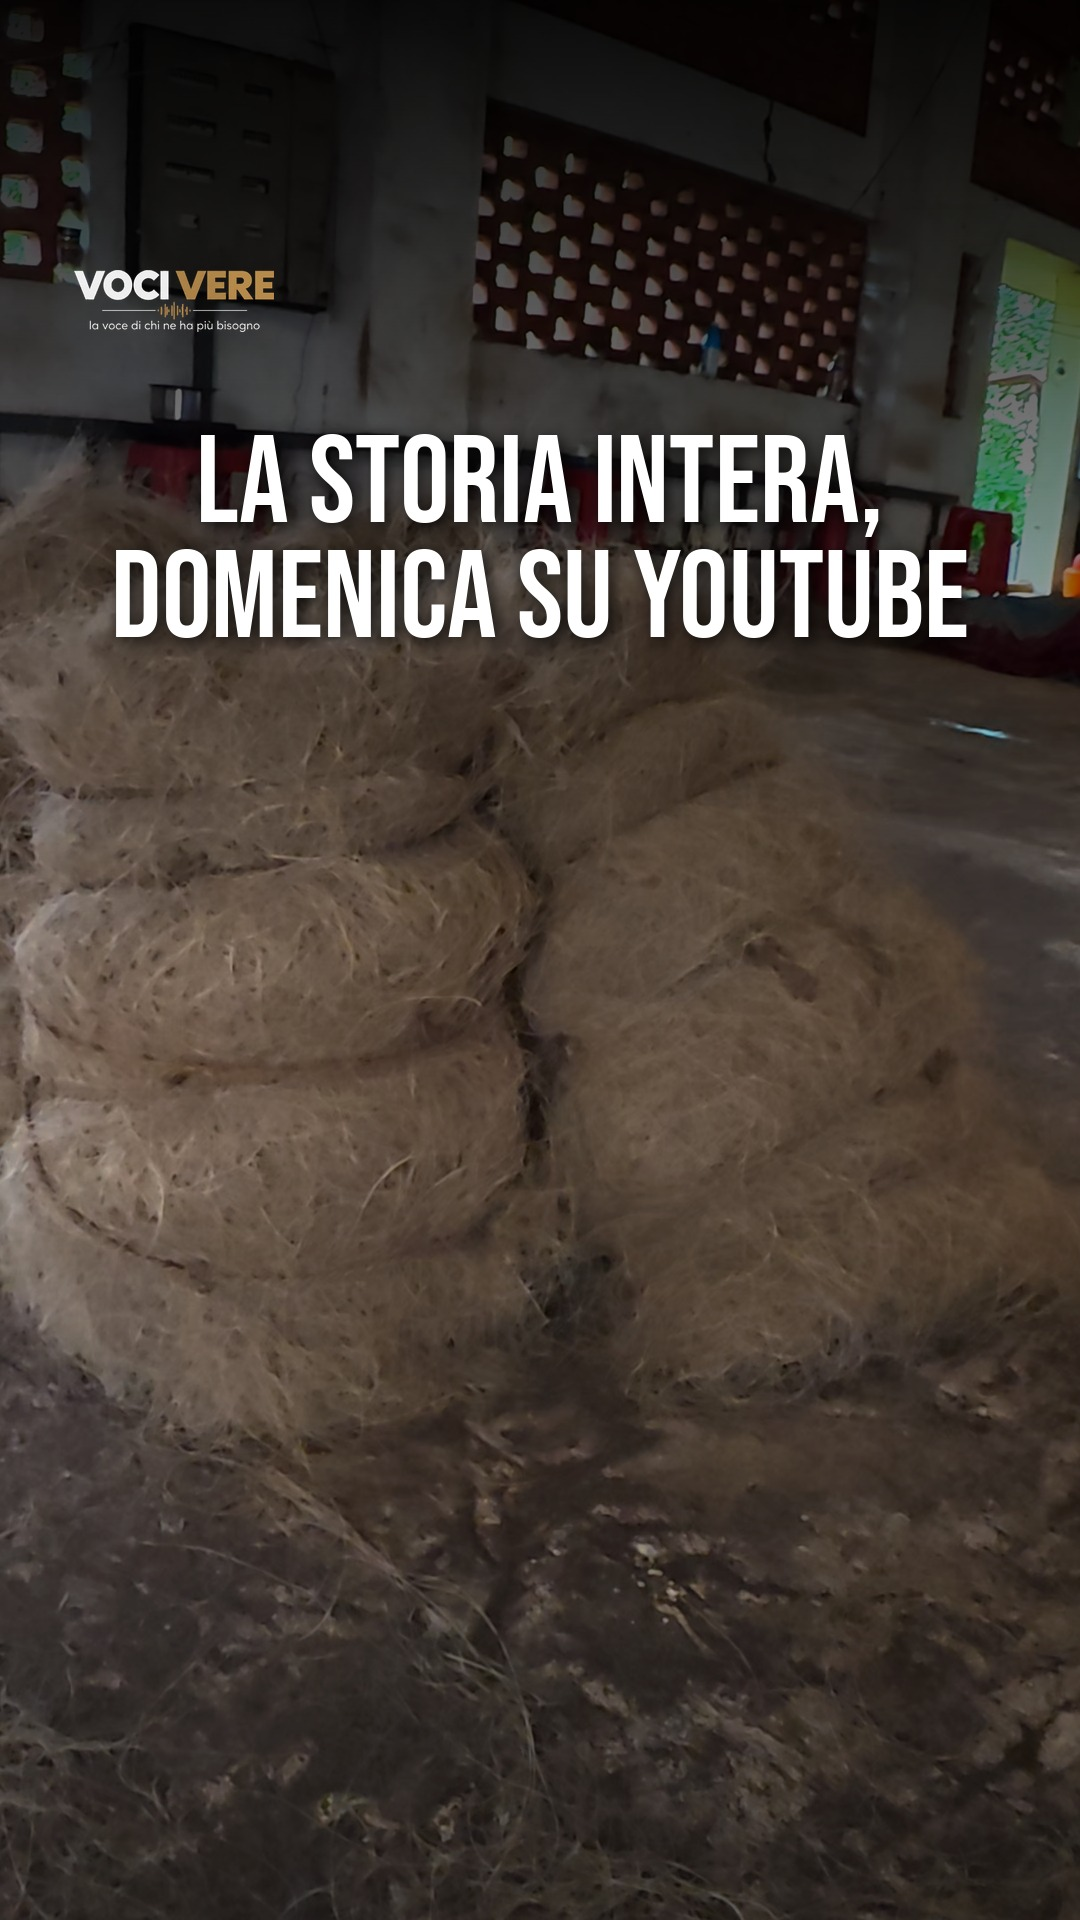
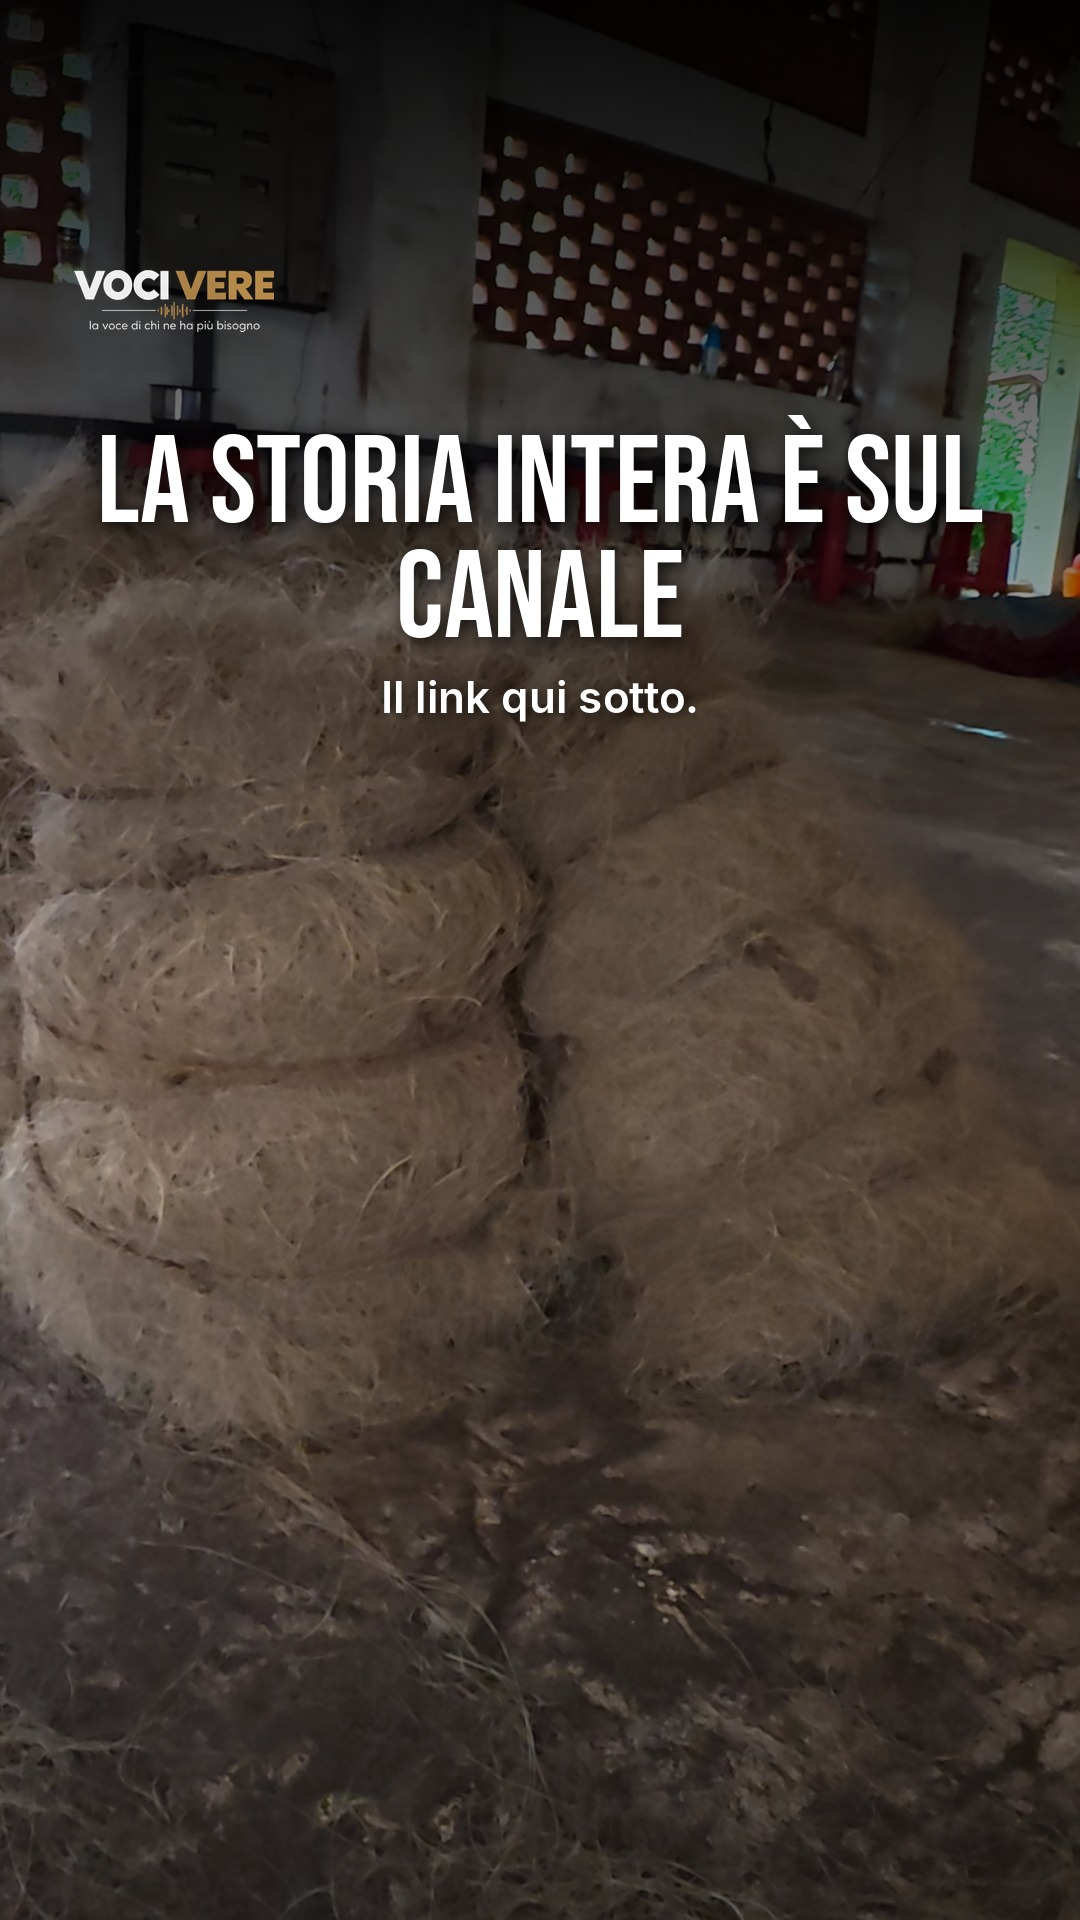
Copy: storie coir solo dopo il lungo, niente 'domenica' (Manuel 8/11)
Claude-Session: https://claude.ai/code/session_01Htfbh1edWrAWmq9z8TR8Ss

Changed region(s): [[0.0917, 0.2188, 0.9167, 0.375]]

diff --git a/copioni/stories/stories_coir.py b/copioni/stories/stories_coir.py
@@ -16,13 +16,14 @@ def crop916(path, cx=.5, zoom=1.0, cy=.5):
     return ImageEnhance.Color(ImageEnhance.Contrast(im).enhance(1.06)).enhance(1.1)
 S.frame, S.crop916 = frame, crop916
 C = 'coir'; B = S._build
+# Tutte le storie escono DOPO il lungo (Manuel, 8/11): mai "domenica" o "esce", solo il rimando al video già uscito.
 B(C, 'set1_dietro_le_quinte', [
  dict(video=C, t=('0034', 1.0), kind='ask', title='Sai da dove viene lo zerbino di cocco?', hl=0, crop=(.5, 1, .5), tsize=124),
  dict(video=C, t=('0021', 2.0), kicker='LA LAGUNA', title='Restano sott\'acqua fino a un anno', body='I gusci di cocco, finché la fibra non si stacca.', crop=(.5, 1, .5)),
  dict(video=C, t=('0046', 3.0), title='Ha 76 anni', body='Ogni giorno spinge la sua barca e tira su i gusci, a mano.', crop=(.45, 1, .5)),
  dict(video=C, t=('0063', 14.0), title='Qui si aprono i gusci, a mano', body='Sedute per terra, sotto la tettoia, fino alle due.', crop=(.5, 1, .5)),
  dict(video=C, t=('0542', 5.0), kind='ask', title='Cosa chiederesti a queste donne?', body='Scrivilo qui sotto.', hl=0, crop=(.45, 1, .5), tsize=130),
- dict(video=C, t=('0087', 1.0), kind='ask', title='La storia intera, domenica su YouTube', hl=0, crop=(.5, 1, .5), tsize=124),
+ dict(video=C, t=('0087', 1.0), kind='ask', title='La storia intera è sul canale', body='Il link qui sotto.', hl=0, crop=(.5, 1, .5), tsize=124),
 ])
 B(C, 'set2_made_in_india', [
  dict(video=C, t=('0087', 1.0), kicker='MADE IN INDIA', title='Sopra c\'è scritto Made in India', body='Ma non c\'è scritto chi l\'ha fatto.', crop=(.5, 1, .5)),

diff --git a/copioni/coir_testi.md b/copioni/coir_testi.md
@@ -407,13 +407,13 @@ Modello meenakshi (`regole/formato_reel.md`): per ogni verticale una musica orig
 - 1975: "Lavoravano il cocco dal 1975. Oggi nessuna 🇮🇳" / "Nel tuo paese c'è un mestiere che sta sparendo?"
 
 ## STORIE: 3 set da 6 (solo la domanda negli adesivi, mai la scritta "quiz")
-### Set 1, prima del lungo (dietro le quinte)
+### Set 1, dopo il lungo (dietro le quinte)
 1. `0034` Manuel in barca, 3 s | SONDAGGIO "Sai da dove viene lo zerbino di cocco?" Sì / No
 2. `0021` i gusci nella laguna | "Restano sott'acqua fino a un anno"
 3. `0046` l'uomo con la pertica | "Ha 76 anni" + cursore emoji
 4. `0063` 13-16 s la tettoia, suono vero 3-4 s | "Qui si aprono i gusci, a mano"
 5. `0542` la donna che sorride | BOX DOMANDE "Cosa chiederesti a queste donne?"
-6. `0087` le matasse | CONTO ALLA ROVESCIA "La storia intera, domenica su YouTube"
+6. `0087` le matasse | LINK al lungo + "La storia intera è sul canale"
 ### Set 2, il giorno dopo il lungo (Made in India)
 1. `0087` le matasse | "Sopra c'è scritto Made in India"
 2. `0540` le mani al lavoro | ADESIVO A SCELTA "Quanto va a loro per un tappeto?" 80 centesimi / 5 € / 15 €

diff --git a/copioni/stories/storie_testi.md b/copioni/stories/storie_testi.md
@@ -81,3 +81,5 @@ Quando: dopo l'uscita del lungo, un set per giorno, nei giorni senza reel o insi
 4. Risposta: più di cent'anni (Sadish)
 5. Il chai master, che non ha voluto parlare
 6. SONDAGGIO "Hai mai assaggiato il chai?" Sì / No (+ link al video)
+
+Regola (Manuel, 8/11): le storie escono SEMPRE dopo il lungo: niente "domenica", conto alla rovescia o annunci; solo il rimando al video già uscito (link).
